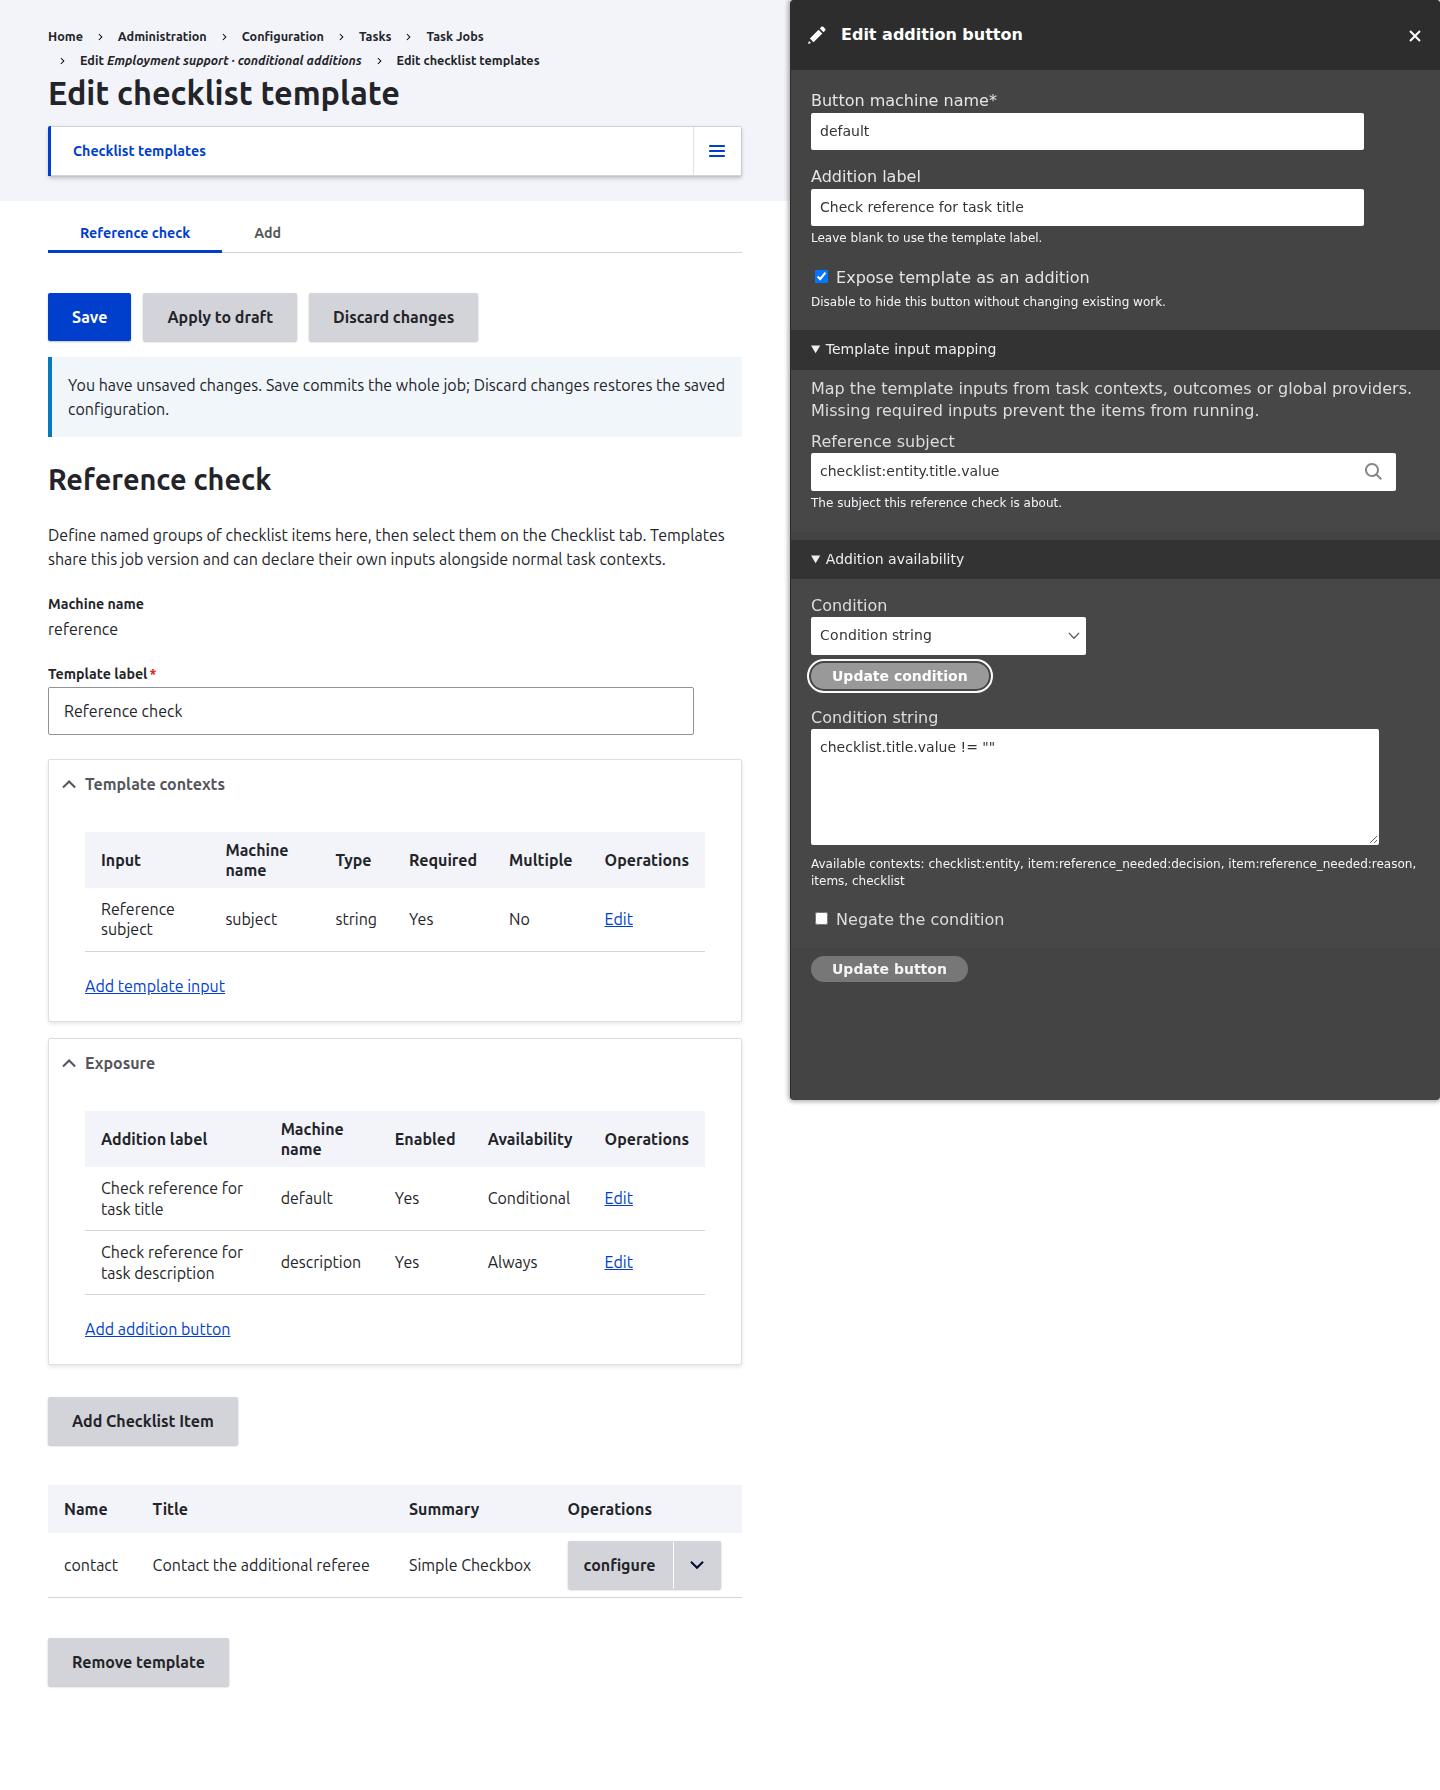
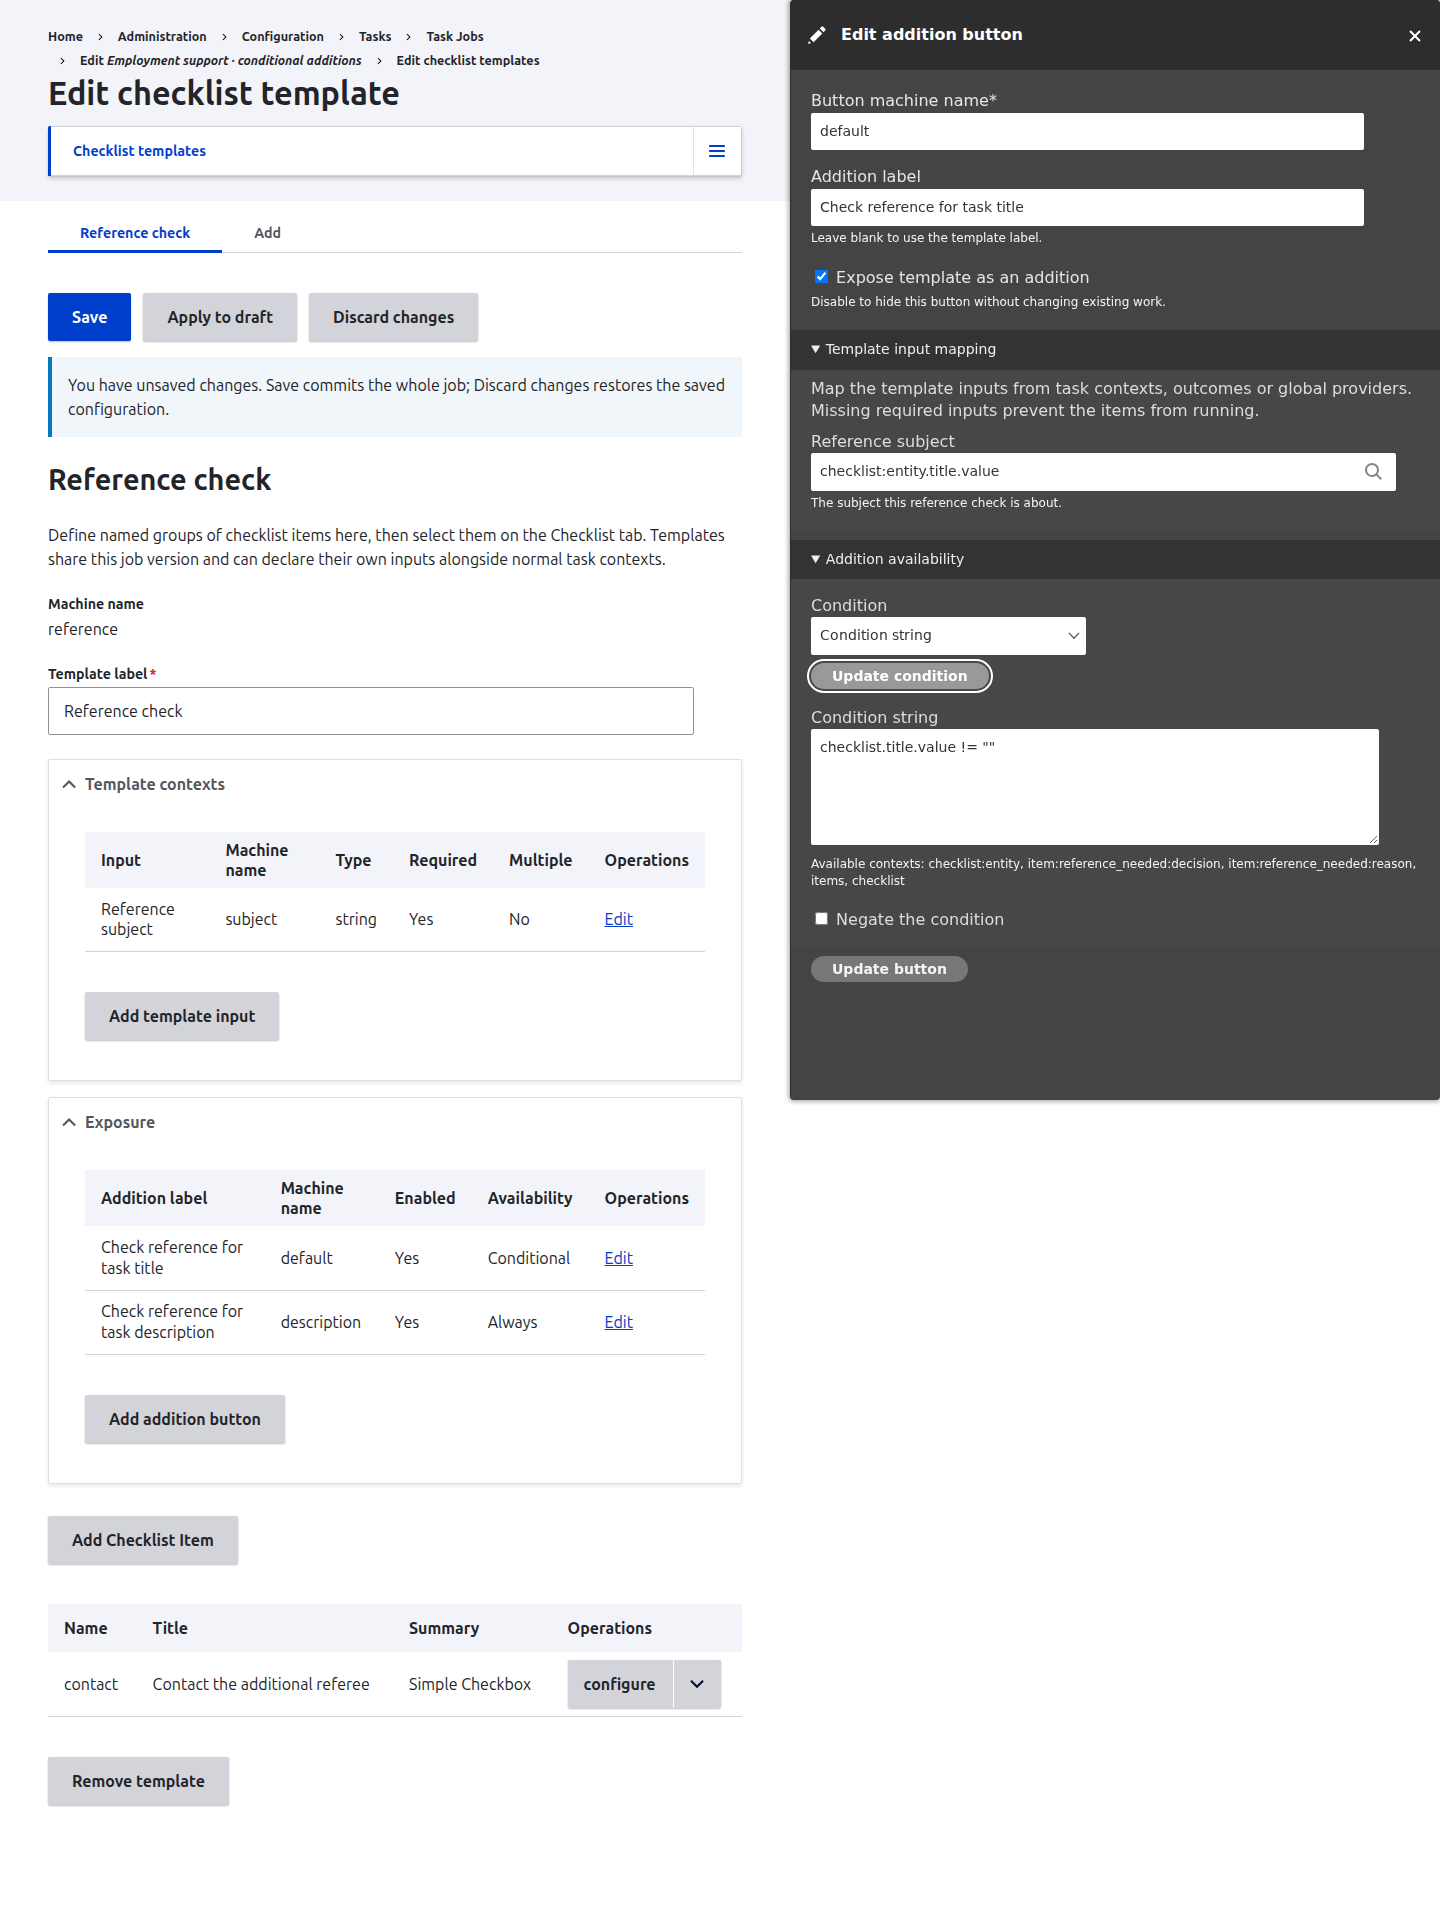
Style context and addition creation links as buttons

diff --git a/modules/data/task/contrib/job/src/Form/JobEditForm.php b/modules/data/task/contrib/job/src/Form/JobEditForm.php
@@ -741,6 +741,7 @@ class JobEditForm extends JobForm {
       $element['context']['add'] = [
         '#type' => 'link',
         '#title' => $this->t('Add template input'),
+        '#attributes' => ['class' => ['button']],
         '#url' => Url::fromRoute('task_job.template_context.add', [
           'task_job' => $this->entity->id(),
           'template' => $name,
